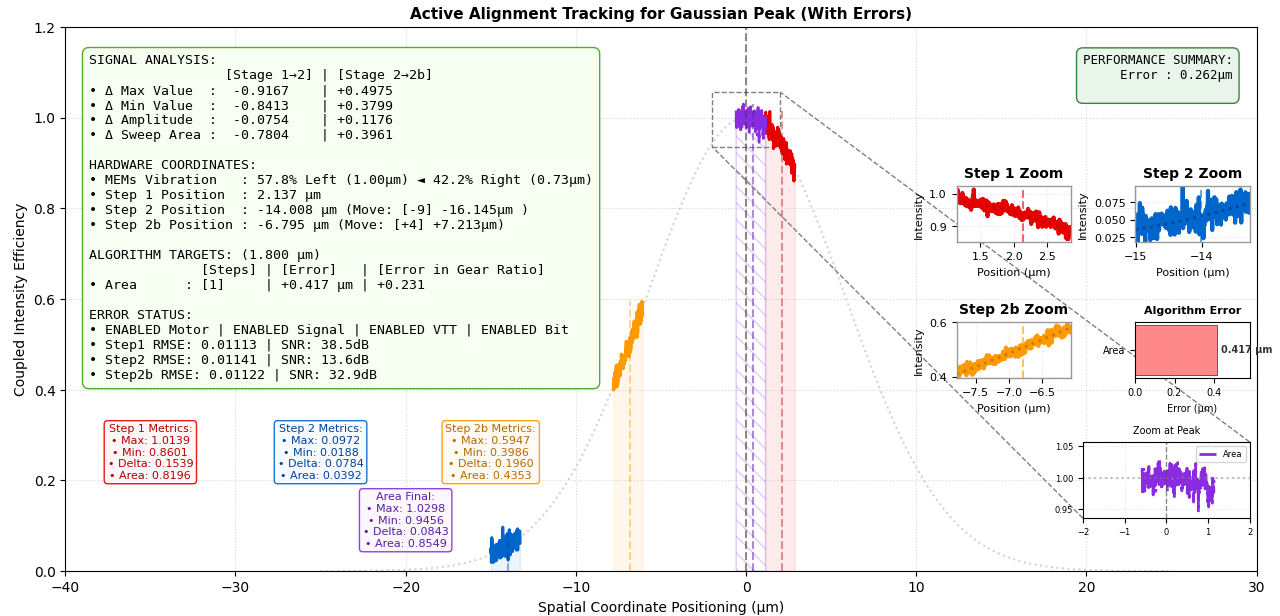
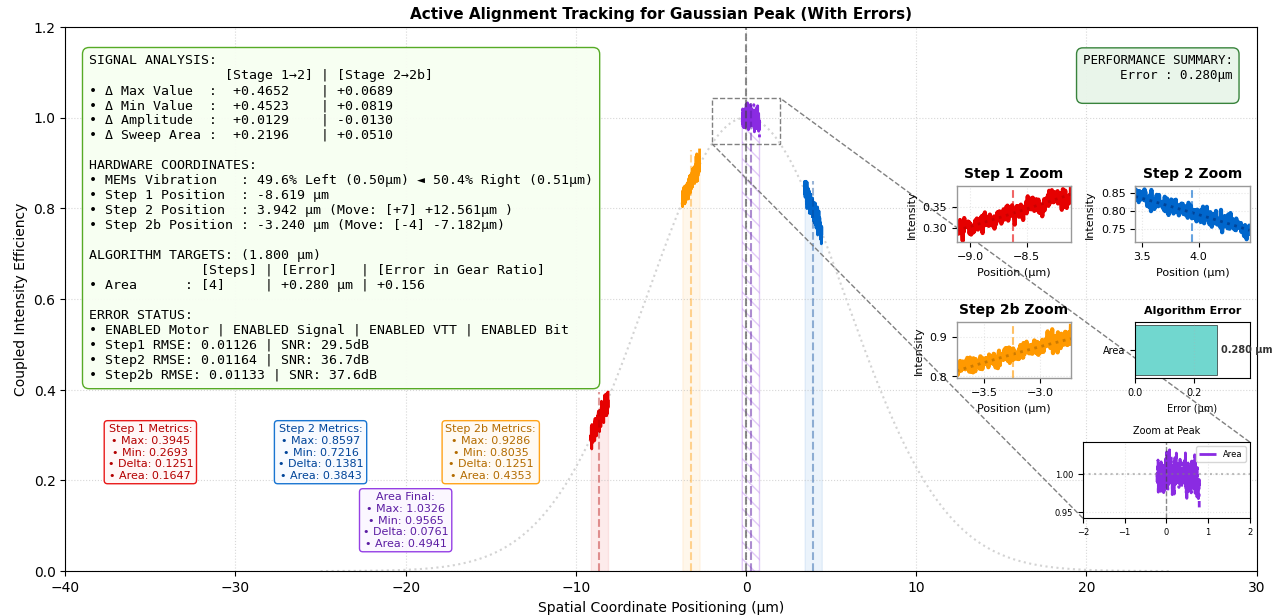
Updated README.md

diff --git a/README.md b/README.md
@@ -1,3 +1,10 @@
+# **Probton**
+### [2026 Chipathon SSCS PICO](https://sscs.ieee.org/technical-committees/tc-ose/sscs-pico-design-contest/)
+
+### Track B (Circuit for Sensors)
+
+### [Team B18 Probton] ASIC Solution for Optical Probe Station for Photonic Integrated Circuits Packaging and Testing
+
 ## Project Description
 Our goal is to develop an open-source ASIC for auto aligner. In our demonstraction we are targeting optical probe stations where it reads photodetector signals, extracts vibration-synchronous alignment error from dither motion, estimates the peak offset, and drives a high speed and accuracy real-time alignment correction.
 
@@ -18,16 +25,18 @@ This offers a low-cost, integrable alternative to proprietary alignment hardware
 <img src="Chart\Optical Probe Station Validation Setup.png" width="100%" alt="Optical Probe Station Setup">
 
 ## Chip Architect
-Photodetector input -> Analog front end -> Digital Signal Processing Block -> External Hardware Control
+
+Size: 1100um x 1100um (estimate) - Block type A
+
+Required pins: 16
 
 <img src="Chart\Optical Probe Station Full Design.png" width="100%" alt="Proposed Chip Architect">
+
+## Links
 
 - [Project Repository](https://github.com/llhtimlam/Probton)
 - [Proposal](https://docs.google.com/presentation/d/1my20nb1kIsFqFrcN5mZosZAiVzRqFzaXHJhg6WDKTtg/edit?slide=id.g3ea99befb0f_0_14#slide=id.g3ea99befb0f_0_14)
 - [Progress Tracker](https://app.notion.com/p/abraaralam/Probton-Home-377a16d0b43280fa8b21c942e25e7d73)
-
-## Track
-B (Circuit for Sensors)
 
 ## Team Members
 
@@ -43,3 +52,7 @@ We have created a [GitHub Organization for our team here](https://github.com/llh
 | Ashmita Saha | @ashmita1509 | ash_1509 | [email redacted] | Interfacing |
 | Victoria Evelyn Tjhin | @victoriatjhin | vik_lyn_ | [email redacted] | Digital & Analog Design |
 | Annika | @ | anna_b75_06065 |  | Analog Design |
+
+### Simulation result
+
+<img src="Chart\Optical Probe Station Simulation.png" width="100%" alt="Simulation Result">